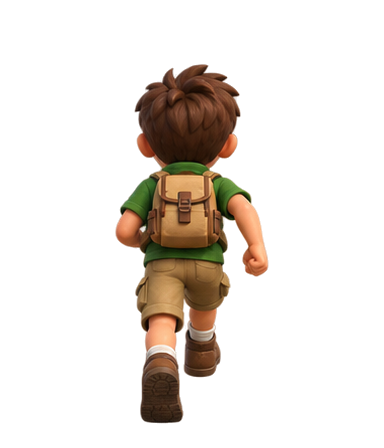
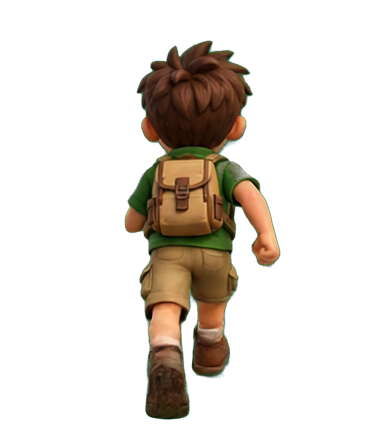
runner: renreeks van de jongen in 19 beelden (Higgsfield Kling 3.0 van de bestaande jongen op groen, zelf gekeyed zodat het groene shirt blijft), renderer telt de beelden uit het manifest en houdt dezelfde paslengte

Changed region(s): [[0.2812, 0.0938, 0.75, 0.9688]]

diff --git a/assets/games/jungle/renderer.js b/assets/games/jungle/renderer.js
@@ -34,10 +34,17 @@ export const isGliding=(level,s)=>!!airborne(level,s);
 // seconds until the path lets go (positive), and seconds since it came back (positive), for the grab / release poses
 export const gapTiming=(level,s)=>{const air=LEVELS[level]?.air;if(!air)return {to:Infinity,since:Infinity};const p=progress(s);let to=Infinity,since=Infinity;for(const [a,b] of air.windows){if(p<a)to=Math.min(to,(a-p)*s.duration);if(p>=b)since=Math.min(since,(p-b)*s.duration);}return {to,since};};
 
+// The run cycle: as many frames as the manifest lists for that hero (01, 02, …,
+// up to 24; the first four always exist). One cycle always covers the same
+// distance, so more frames make the stride smoother, not faster.
+const RUN_NAMES=Array.from({length:24},(_,i)=>'run-'+String(i+1).padStart(2,'0'));
+function runCount(hero){if(!manifest)return 4;let n=0;while(n<24&&manifest.has(`hero-${hero}-${RUN_NAMES[n]}`))n++;return n>=4?n:4;}
+function runImage(hero,distance){const n=runCount(hero);return `hero-${hero}-${RUN_NAMES[Math.floor(distance*27*n/4)%n]}`;}
+
 // Every painting a level + hero needs, and what stands in for one that is not
 // there yet (the jungle set and the boy always exist).
 const FALLBACK={'city-day':'jungle-tempel','sky-day':'jungle-watervallen','obstacle-barrier':'obstacle-log','obstacle-cone':'obstacle-rock','obstacle-bird':'obstacle-log','obstacle-storm':'obstacle-rock','scenery-lamp':'scenery-tree','scenery-building':'scenery-tree','scenery-tree-city':'scenery-tree','scenery-cloud':'scenery-fern','scenery-balloon':'scenery-tree','scenery-island':'scenery-bridge','collectible-city-card':'collectible-jungle-card','collectible-sky-card':'collectible-jungle-card'};
-export function assetNames(level,hero){const L=LEVELS[level];const names=new Set([...L.scenes,L.obstacles.log,L.obstacles.rock,L.card,'collectible-coin',...L.props.flatMap(p=>p.pick||[p.name]),...(L.extras||[])]);for(const f of ['run-01','run-02','run-03','run-04','jump','flip','glide','swing','swing-back','swing-2','grab','release','reach'])names.add(`hero-${hero}-${f}`);names.add('scenery-glider');for(const n of [...names])if(FALLBACK[n])names.add(FALLBACK[n]);if(hero!=='boy')for(const f of ['run-01','run-02','run-03','run-04','jump','flip','glide','swing','swing-back','swing-2','grab','release','reach'])names.add(`hero-boy-${f}`);names.add('hero-boy-jump');names.add('hero-boy-run-02');names.add('hero-girl-run-02');for(const l of Object.values(LEVELS))names.add(l.scenes[0]);names.add('hero-boy-portrait');names.add('hero-girl-portrait');return [...names];}
+export function assetNames(level,hero){const L=LEVELS[level];const names=new Set([...L.scenes,L.obstacles.log,L.obstacles.rock,L.card,'collectible-coin',...L.props.flatMap(p=>p.pick||[p.name]),...(L.extras||[])]);for(const f of [...RUN_NAMES,'jump','flip','glide','swing','swing-back','swing-2','grab','release','reach'])names.add(`hero-${hero}-${f}`);names.add('scenery-glider');for(const n of [...names])if(FALLBACK[n])names.add(FALLBACK[n]);if(hero!=='boy')for(const f of [...RUN_NAMES,'jump','flip','glide','swing','swing-back','swing-2','grab','release','reach'])names.add(`hero-boy-${f}`);names.add('hero-boy-jump');names.add('hero-boy-run-02');names.add('hero-girl-run-02');for(const l of Object.values(LEVELS))names.add(l.scenes[0]);names.add('hero-boy-portrait');names.add('hero-girl-portrait');return [...names];}
 // The painting that stands in for a missing one: a girl frame → the boy's, a level prop → its jungle cousin, a glide pose → the jump pose.
 export function resolveName(name,cache){if(cache[name]||(manifest&&manifest.has(name)))return name;if(FALLBACK[name]&&cache[FALLBACK[name]])return FALLBACK[name];const m=name.match(/^hero-girl-(.+)$/);if(m&&cache['hero-boy-'+m[1]])return 'hero-boy-'+m[1];if(/^hero-.+-(glide|swing)$/.test(name)){const j=name.replace(/glide|swing/,'jump');return cache[j]?j:'hero-boy-jump';}if(/^hero-.+-(swing-back|swing-2)$/.test(name)){const j=name.replace(/swing-(back|2)/,'swing');return cache[j]?j:resolveName(j,cache);}if(/^hero-.+-(grab|reach)$/.test(name)){const j=name.replace(/grab|reach/,'jump');return cache[j]?j:'hero-boy-jump';}if(/^hero-.+-release$/.test(name)){const j=name.replace('release','run-02');return cache[j]?j:'hero-boy-run-02';}if(/^hero-.+-portrait$/.test(name)){const j=name.replace('portrait','run-02');return cache[j]?j:'hero-boy-run-02';}return name;}
 const one=src=>new Promise((resolve,reject)=>{const im=new Image();im.onload=()=>resolve(im);im.onerror=()=>reject(new Error('Afbeelding kon niet laden: '+src));im.src=src;});
@@ -49,7 +56,7 @@ async function present(base){if(manifest)return manifest;try{const r=await fetch
 export async function loadAssets(base,names,cache={}){
  const have=await present(base);
  await Promise.all(names.map(async name=>{if(cache[name]!==undefined)return;if(have&&!have.has(name)){cache[name]=null;return;}try{cache[name]=await one(versioned(new URL(name+'.png',base).href));}catch{cache[name]=null;}}));
- const optional=/^(jungle-ravine|jungle-ravine-edge|scenery-liana|scenery-glider|scenery-(house|shop|tower)-\d+|scenery-(bench|postbox|hydrant|busstop|balloon-seller|fountain)|city-evening|obstacle-car-side(-2)?|hero-(boy|girl)-(swing-back|swing-2|grab|release|reach))$/;
+ const optional=/^(jungle-ravine|jungle-ravine-edge|scenery-liana|scenery-glider|scenery-(house|shop|tower)-\d+|scenery-(bench|postbox|hydrant|busstop|balloon-seller|fountain)|city-evening|obstacle-car-side(-2)?|hero-(boy|girl)-(swing-back|swing-2|grab|release|reach)|hero-(boy|girl)-run-(0[5-9]|1\d|2[0-4]))$/;
  const images={};for(const name of names){const im=cache[resolveName(name,cache)];if(!im&&!optional.test(name))throw new Error('Afbeelding kon niet laden: '+name);if(im)images[name]=im;}
  return images;
 }
@@ -200,7 +207,7 @@ export class Renderer{
     drawLiana(top.x,top.y,hand.x,hand.y,alpha);
     this.image(pose,hx,bottom,SW,sway,alpha);}
    else{const k=since/TAIL;const pose=k<.7&&has(`hero-${hero}-release`)?`hero-${hero}-release`:null;
-    if(pose)this.image(pose,p.x,bottom,SW,clampTilt(s),alpha);else this.image(`hero-${hero}-run-0${1+Math.floor(s.distance*27)%4}`,p.x,bottom,211,clampTilt(s),alpha);}
+    if(pose)this.image(pose,p.x,bottom,SW,clampTilt(s),alpha);else this.image(runImage(hero,s.distance),p.x,bottom,211,clampTilt(s),alpha);}
   }
   else if(kind==='glide'&&phase){
    const glider=this.images['scenery-glider'];
@@ -211,7 +218,7 @@ export class Renderer{
    else if(phase==='in'){this.image(`hero-${hero}-glide`,p.x,bottom,236,clampTilt(s)*1.6,alpha);}
    else{const k=since/TAIL;const pose=k<.7&&has(`hero-${hero}-release`)?`hero-${hero}-release`:null;
     drawGlider(p.x,fists(pose||`hero-${hero}-reach`)-k*k*420,alpha*(1-k));
-    if(pose)this.image(pose,p.x,bottom,SW,clampTilt(s),alpha);else this.image(`hero-${hero}-run-0${1+Math.floor(s.distance*27)%4}`,p.x,bottom,211,clampTilt(s),alpha);}
+    if(pose)this.image(pose,p.x,bottom,SW,clampTilt(s),alpha);else this.image(runImage(hero,s.distance),p.x,bottom,211,clampTilt(s),alpha);}
   }
   else if(s.jump>0&&!this.reduced)this.flip(p.x,bottom,211,s.jump,alpha,!!s.doubleFlip);
   // bumped into something: the running stops dead, the child rocks backwards,
@@ -219,7 +226,7 @@ export class Renderer{
   // held still meanwhile (engine.js), so the stop is felt, not only seen.
   else if(s.stumble>0){const k=1-s.stumble/.55,rock=Math.sin(Math.min(1,k*1.35)*Math.PI);
    this.image(`hero-${hero}-run-01`,p.x+(this.reduced?0:Math.sin(s.stumble*47)*5*(1-k)),bottom+rock*13,211,-.36*rock+clampTilt(s),alpha);}
-  else this.image(s.jump>0?`hero-${hero}-jump`:`hero-${hero}-run-0${1+Math.floor(s.distance*27)%4}`,p.x,bottom,211,clampTilt(s)+this.curve*.4,alpha);
+  else this.image(s.jump>0?`hero-${hero}-jump`:runImage(hero,s.distance),p.x,bottom,211,clampTilt(s)+this.curve*.4,alpha);
   if(s.shield)shieldAura(g,p.x,p.y-85-jump*137-heroLift,74,116,s.time,this.reduced);
   if(s.magnet>0)magnetAura(g,p.x,p.y-85-jump*137-heroLift,86,130,s.time,this.reduced);};
  let drawn=false;
